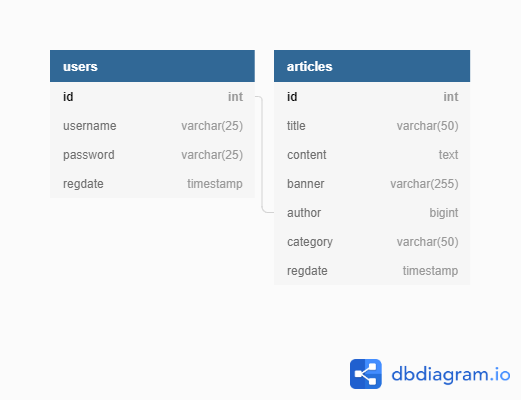
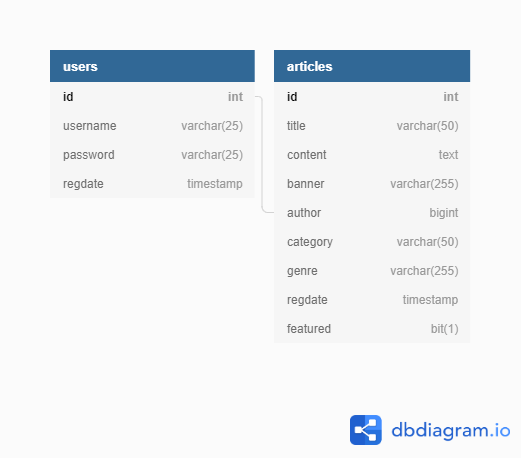
Updated Diagram Plan and Database Fix

diff --git a/Database/Diagram plan/Database Diagram Plan.md b/Database/Diagram plan/Database Diagram Plan.md
@@ -16,7 +16,7 @@ Table users{
 
 Table articles{
 
-  id int [pk, increment]
+  id int [pk, increment] 
   
   title varchar(50) [not null]
   
@@ -28,7 +28,11 @@ Table articles{
   
   category varchar(50) [not null]
   
+  genre varchar(255) [not null]
+  
   regdate timestamp [not null, default: 'now()']
+  
+  featured bit(1) 
   
 }
 
